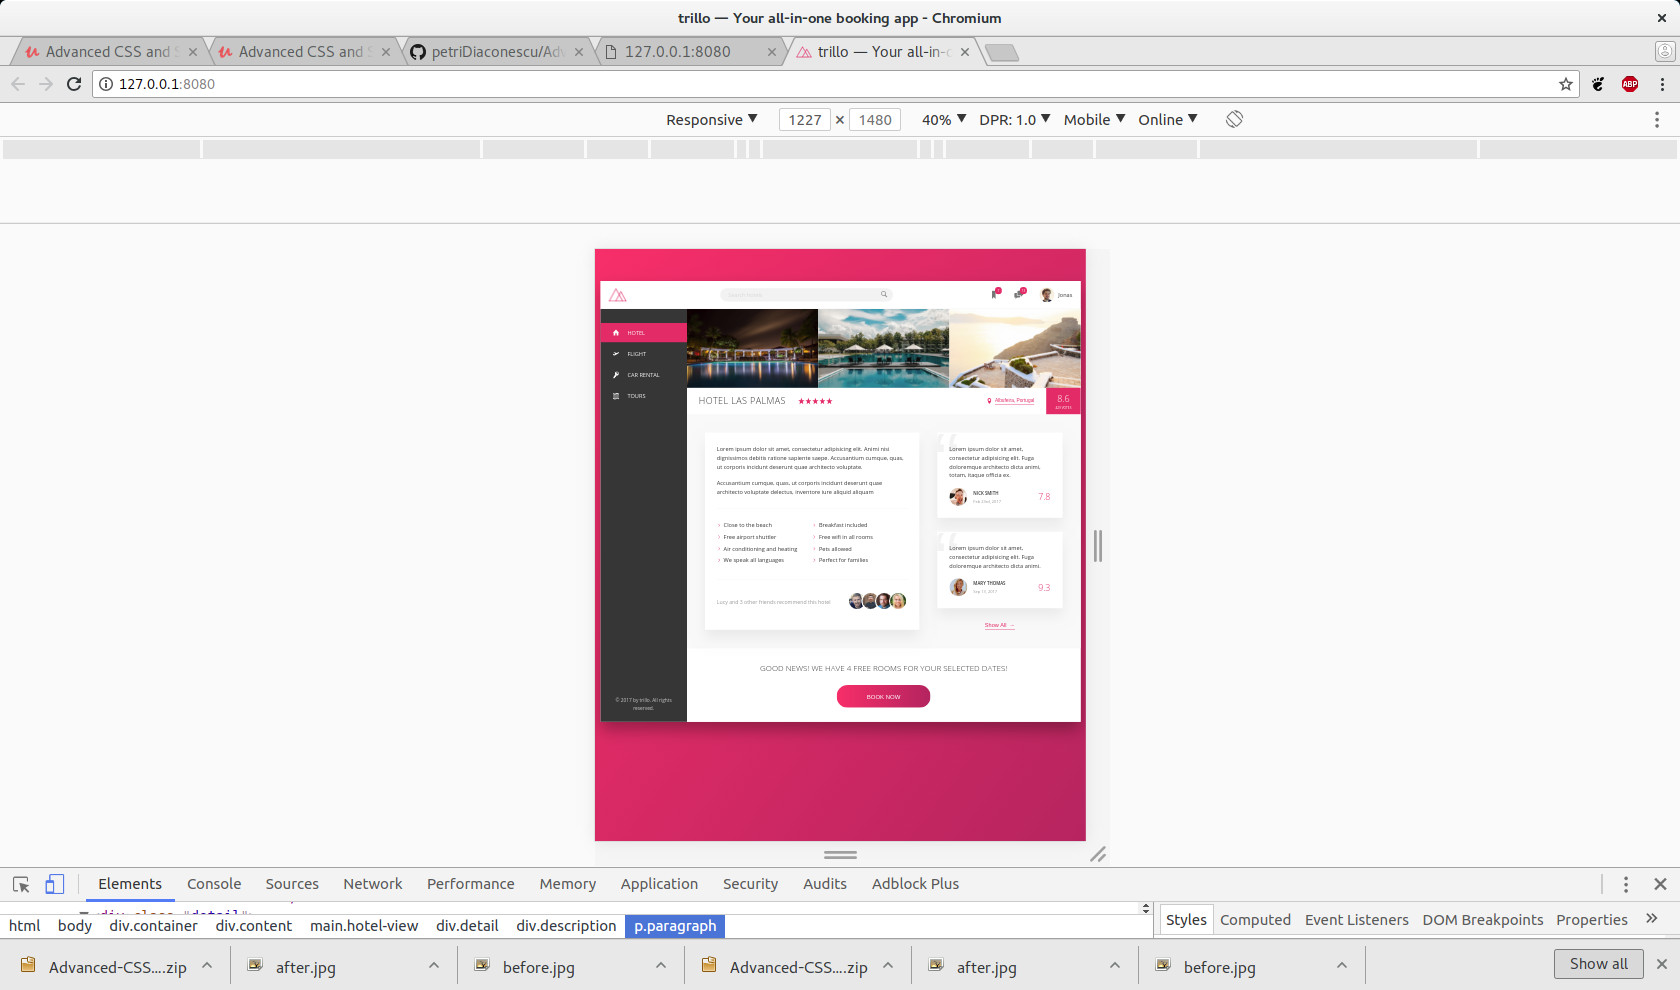
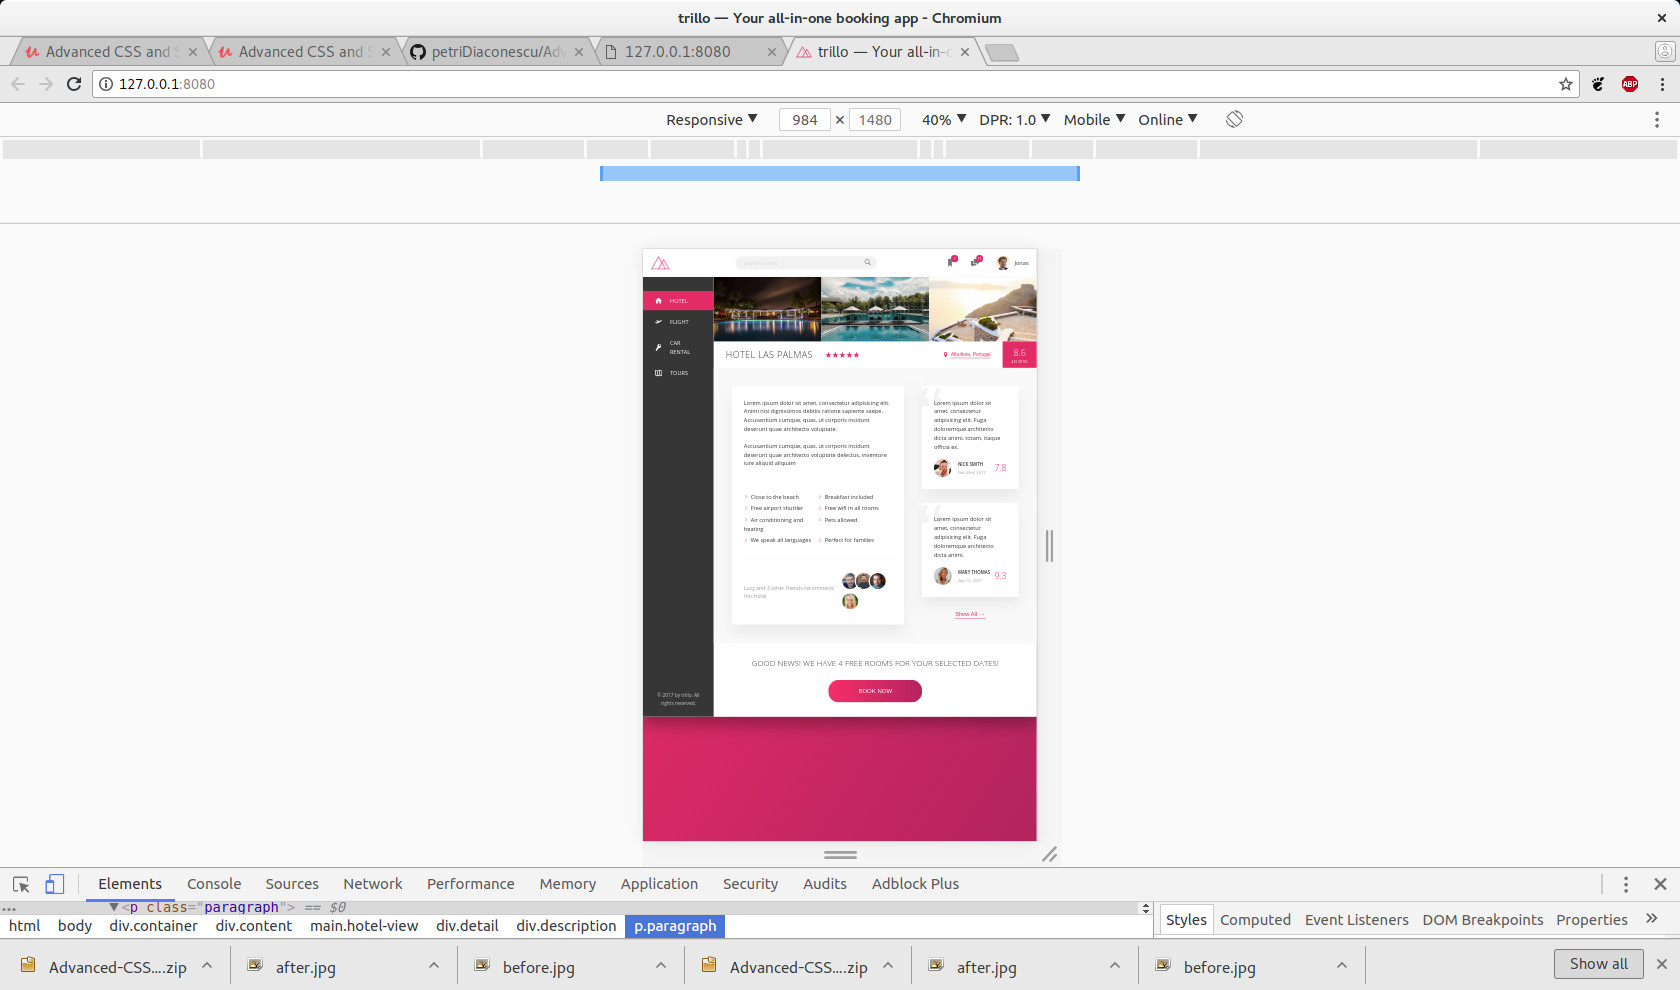
Change the font-size under 1100px screen device.

Changed region(s): [[0.3405, 0.2424, 0.65, 0.8788], [0.0, 0.9091, 0.681, 0.9394], [0.3405, 0.1515, 0.65, 0.1818]]

diff --git a/sass/_base.scss b/sass/_base.scss
@@ -23,6 +23,7 @@ COLORS
 }
 
 $bp-largest: 75em;  //1200px;
+$bp-large: 68.75em; //1100px
 
 * {
   margin: 0;
@@ -38,6 +39,10 @@ $bp-largest: 75em;  //1200px;
 html {
   box-sizing: border-box;
   font-size: 62.5%; //1rem = 10px; 10/16=0.625
+  
+  @media only screen and (max-width: $bp-large) {
+    font-size: 50%;
+  }
 }
 
 body {
